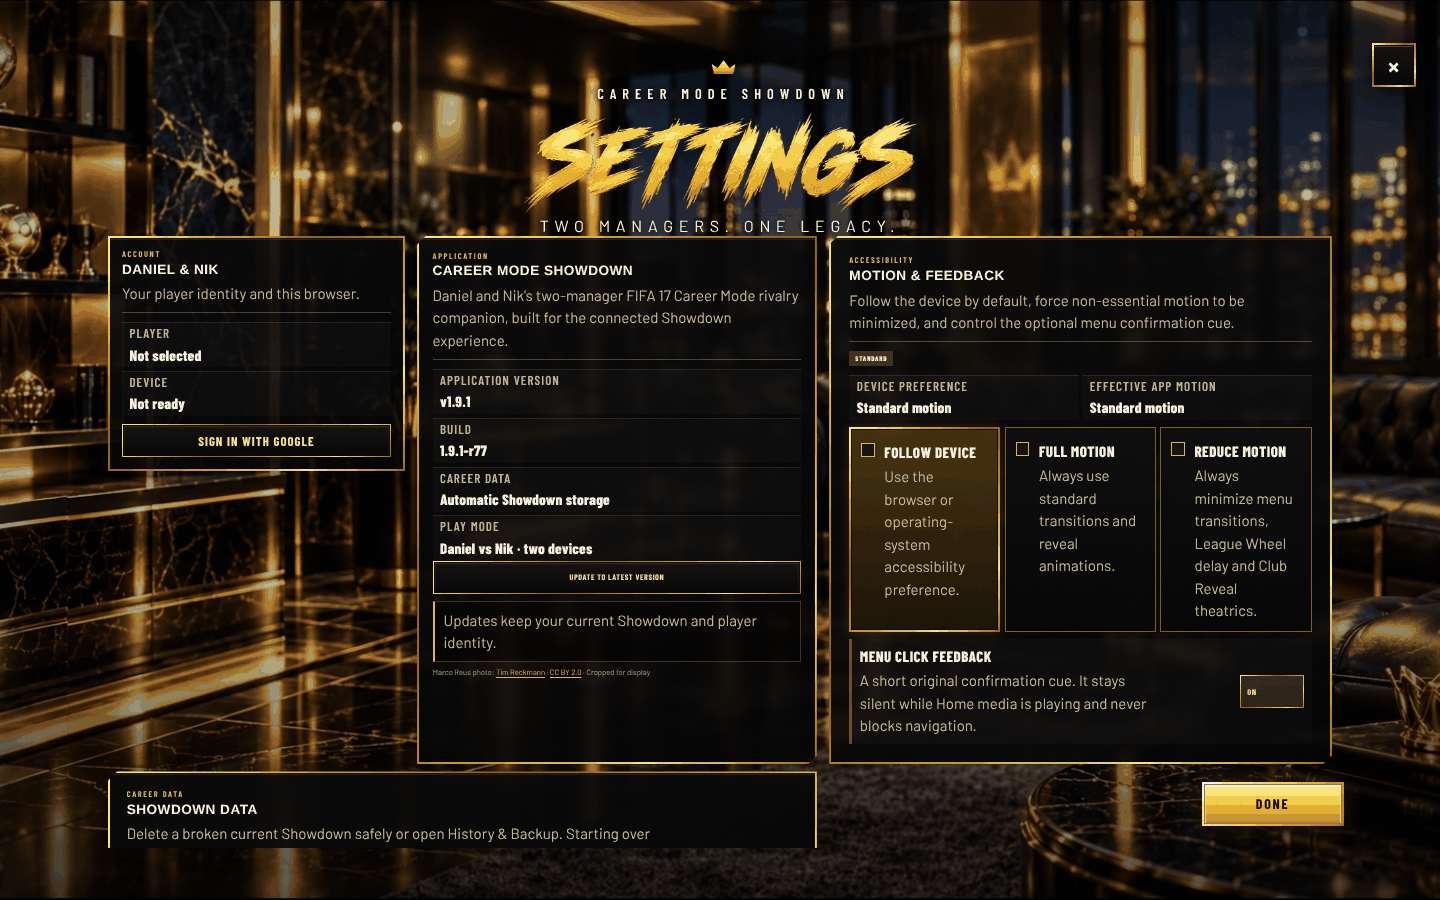
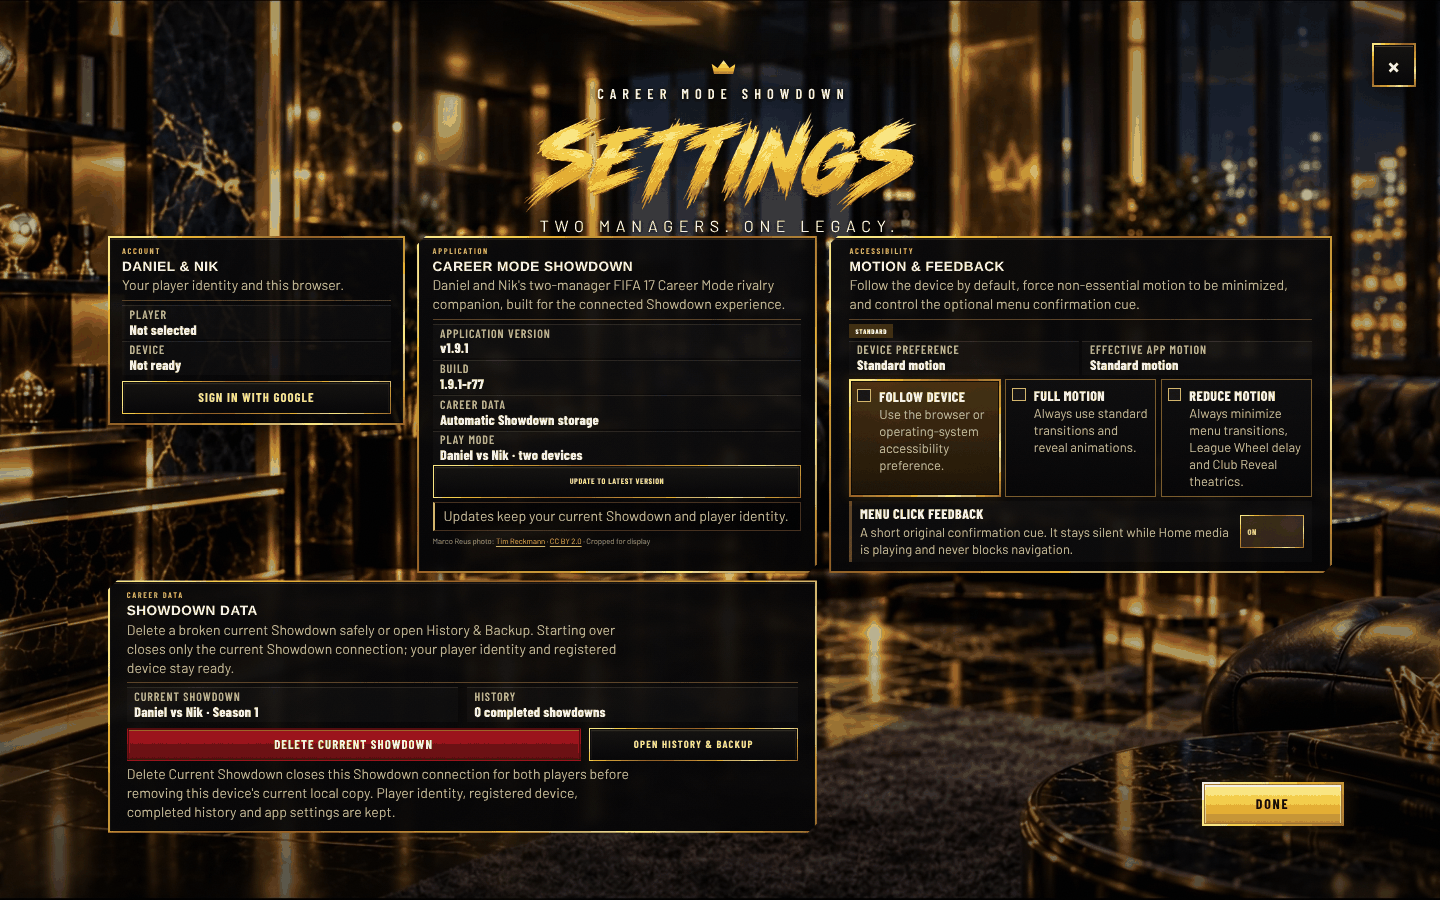
r78 kit: Settings desktop keeps the approved composition (HO-028)
The 3d+ zoom compensation made the Motion cards tall and pushed the
Showdown Data card below the fold. Settings on big desktops now uses
smaller on-screen sizes on that screen only (14px intros/notes/values,
13px helper lines, 12px labels), pays for them with tighter spacing
inside the panels, and floors the zoom divisor on smaller laptop
windows. All panels and the full Showdown Data card fit with no scroll
from 1280x720 to 2560x1440; phone Settings is unchanged. Re-shot
after_settings_desktop.png, added after_settings_1920x1080.png and
after_settings_1366x768.png, updated README caveats.

Claude-Session: https://claude.ai/code/session_014ZJxmmR5BHBU6KFwo3Mvsk

Changed region(s): [[0.0625, 0.28, 0.9375, 0.9644]]

diff --git a/project-documents/factory/r78/HO-028_029/r78-type.css b/project-documents/factory/r78/HO-028_029/r78-type.css
@@ -323,24 +323,68 @@
 }
 
 /* 3d+ · Settings on big landscape desktops is one 1920x1080 composition shrunk with CSS zoom
-   (rulesSettingsV10.css: zoom min(100vw/1920px, 100vh/1080px, 1.5) on each .settingsPanel). At 1440x900 that is
-   0.75, so 15px copy showed at about 11px. Body copy and row labels divide by the same factor so they SHOW at the
-   token size. Panels then grow taller; their content area already scrolls (Nik 2026-10-05 rule). */
+   (rulesSettingsV10.css: zoom min(100vw/1920px, 100vh/1080px, 1.5) on each .settingsPanel; 0.75 at 1440x900).
+   This screen only uses SMALLER on-screen sizes than the global tokens, so the approved composition stays intact:
+   all three panels and the whole Showdown Data card (with Delete Current Showdown) in one view, no page scroll.
+   On screen: panel intros, notes and row values 14px; motion/audio helper lines 13px; row labels 12px.
+   Each size divides by the same zoom factor so it SHOWS at that size from 1440x900 up to 2560x1440; the type is paid for
+   with tighter spacing inside the panels. Short laptop windows: see the block after this one. */
 @media (min-width: 1200px) and (min-height: 600px) and (min-aspect-ratio: 3/2) and (orientation: landscape) {
   @supports (zoom: calc(1px / 1px)) {
     :root #settingsOverlay.v10Settings { --r78-settings-zoom: min(calc(100vw / 1920px), calc(100vh / 1080px), 1.5); }
     :root #settingsOverlay.v10Settings :is(.settingsPanelHeading p, .settingsDataNote, .settingsOfflineNote,
-      .settingsApplicationUpdateStatus, .settingsMotionCopy small, .settingsAudioCopy small) {
-      font-size: calc(var(--r78-size-secondary) / var(--r78-settings-zoom));
+      .settingsApplicationUpdateStatus) {
+      font-size: calc(14px / var(--r78-settings-zoom));
+      line-height: 1.35;
+    }
+    :root #settingsOverlay.v10Settings :is(.settingsMotionCopy small, .settingsAudioCopy small) {
+      font-size: calc(13px / var(--r78-settings-zoom));
+      line-height: 1.3;
     }
     :root #settingsOverlay.v10Settings .settingsInfoRow span {
-      font-size: calc(var(--r78-size-label) / var(--r78-settings-zoom));
+      font-size: calc(12px / var(--r78-settings-zoom));
+      line-height: 1.1;
     }
-    /* row values and choice names (condensed, were 13px -> ~10px on screen) */
+    /* row values and choice names (condensed) */
     :root #settingsOverlay.v10Settings :is(.settingsInfoRow strong, .settingsMotionCopy strong, .settingsAudioCopy strong) {
-      font-size: calc(15px / var(--r78-settings-zoom));
-      line-height: 1.25;
+      font-size: calc(14px / var(--r78-settings-zoom));
+      line-height: 1.15;
     }
+    /* Height budget: the 1920x1080 composition had about 9px to spare, so the bigger type is paid for with spacing
+       inside the panels (panel padding, heading gaps, row gaps, the band above the motion summary down to its STANDARD chip).
+       Panel sizes, positions and order are unchanged. */
+    :root #settingsOverlay.v10Settings #settingsDialog #settingsContent > .settingsPanel { padding-top: 12px; padding-bottom: 12px; }
+    :root #settingsOverlay.v10Settings #settingsContent .settingsPanelHeading { margin-bottom: 6px; padding-bottom: 6px; }
+    :root #settingsOverlay.v10Settings #settingsContent .settingsPanelHeading p { margin-top: 3px; }
+    :root #settingsOverlay.v10Settings #settingsContent .settingsInfoGrid { row-gap: 2px; }
+    :root #settingsOverlay.v10Settings #settingsContent .settingsInfoRow { padding-top: 2px; padding-bottom: 2px; }
+    :root #settingsOverlay.v10Settings #settingsContent .settingsInfoRow strong { margin-top: 1px; }
+    :root #settingsOverlay.v10Settings #settingsContent .settingsMotionSummary { padding-top: 22px; }
+    :root #settingsOverlay.v10Settings #settingsContent :is(.settingsOfflineNote, .settingsApplicationUpdateStatus) { margin-top: 6px; padding-top: 5px; padding-bottom: 5px; }
+    :root #settingsOverlay.v10Settings #settingsContent .settingsOfflineActions { margin-top: 8px; }
+    :root #settingsOverlay.v10Settings #settingsContent .settingsDataNote { margin-top: 6px; }
+    :root #settingsOverlay.v10Settings #settingsContent .settingsMotionChoices { margin-top: 6px; }
+    :root #settingsOverlay.v10Settings #settingsContent .settingsMotionChoice { padding: 8px; column-gap: 7px; }
+    :root #settingsOverlay.v10Settings #settingsContent :is(.settingsMotionMarker, .settingsMotionCopy) { margin-top: 2px; }
+    :root #settingsOverlay.v10Settings #settingsContent .settingsMotionCopy small { margin-top: 2px; }
+    :root #settingsOverlay.v10Settings #settingsContent .settingsAudioRow { margin-top: 6px; padding-top: 6px; padding-bottom: 6px; }
+    /* main caps this line at 390px, sized for its old 9px text; at 13px it would wrap to three short lines */
+    :root #settingsOverlay.v10Settings #settingsContent .settingsAudioCopy { gap: 3px; }
+    :root #settingsOverlay.v10Settings #settingsContent .settingsAudioCopy small { max-width: 60ch; }
+  }
+}
+/* Smaller laptop windows: full compensation would not fit there, so the zoom divisor has a floor and the type shrinks a
+   little with the window. 16:9 windows under 1920x1080 (1600x900, 1536x864, 1366x768, 1280x720) keep the 16:9 layout at
+   divisor 0.85 (1366x768: about 11.5px intros, 11px helpers, 10px labels; main shows 8.5 / 6.4 / 5.7px there).
+   16:10 and 3:2 windows under 900px tall (1280x800) keep the 1440x900 layout at divisor 0.75. */
+@media (min-width: 1200px) and (min-height: 600px) and (max-height: 1079px) and (min-aspect-ratio: 17/10) and (orientation: landscape) {
+  @supports (zoom: calc(1px / 1px)) {
+    :root #settingsOverlay.v10Settings { --r78-settings-zoom: max(min(calc(100vw / 1920px), calc(100vh / 1080px), 1.5), 0.85); }
+  }
+}
+@media (min-width: 1200px) and (min-height: 600px) and (max-height: 899px) and (max-aspect-ratio: 169/100) and (min-aspect-ratio: 3/2) and (orientation: landscape) {
+  @supports (zoom: calc(1px / 1px)) {
+    :root #settingsOverlay.v10Settings { --r78-settings-zoom: max(min(calc(100vw / 1920px), calc(100vh / 1080px), 1.5), 0.75); }
   }
 }
 

diff --git a/project-documents/factory/r78/HO-028_029/README.md b/project-documents/factory/r78/HO-028_029/README.md
@@ -61,7 +61,7 @@ The panel is opaque: the tile plus a 1px `--sd-gold-700` edge, a thin gold hairl
 
 What changes on the Rules screen: one body font (Barlow 16/1.55, ivory) and gold condensed section headings. Scoring becomes one row per award, with the label in body type and the value in gold. Rule cards get an opaque marble face. The cards have more air and about 64ch lines. On desktop, BACK TO MAIN MENU now sits after the last row. The board no longer fits in one view at 16px, and the old sticky button covered rule text while scrolling. The top navbar keeps HOME one tap away. Phones keep their docked Back and their accordion.
 
-Settings note: on big desktops the Settings board is shrunk with CSS `zoom` (0.75 at 1440x900). `r78-type.css` 3d+ divides the body copy, the row labels and the values by the same factor, so they show at the token size. The Motion choice cards grow taller as a result. Please look at Settings at 1366x768 and 1440x900 after wiring. Also note: Settings panel headings use `var(--sd-font-display, sans-serif)`, and that variable is not defined, so they render in a generic sans-serif. That is a heading font, so it is left alone here.
+Settings note: on big landscape desktops the Settings board is one 1920x1080 composition shrunk with CSS `zoom` (0.75 at 1440x900, 1 at 1920x1080). On this screen only, `r78-type.css` 3d+ deliberately uses SMALLER on-screen sizes than the global tokens: panel intros, notes and row values 14px, motion and audio helper lines 13px, row labels 12px (main shows 12 / 9 / 8px at 1920x1080 and 9 / 6.75 / 6px at 1440x900). Each size is divided by the zoom factor so it shows at that size, and the extra height is paid for with tighter spacing inside the panels (panel padding 12px, smaller heading and row gaps, a 22px band for the STANDARD chip instead of 31px, and main's 390px cap on the Menu Click Feedback line lifted to 60ch). Panel positions, sizes, order and the 3-column motion choices are unchanged. Checked with an active Showdown (Delete Current Showdown showing) at 1280x720, 1280x800, 1350x900, 1366x768, 1440x900, 1536x864, 1600x900, 1680x1050, 1920x1080, 1920x1200 and 2560x1440: all three panels and the whole Showdown Data card are in view, `#settingsContent` does not scroll, the page does not scroll, and the motion helper lines wrap to 3 to 5 lines. On windows smaller than the composition, the full compensation would not fit. So the zoom divisor stops at 0.85 on 16:9 windows under 1080px tall, and at 0.75 on 16:10 and 3:2 windows under 900px tall, and the type shrinks a little with the window. At 1366x768 that gives about 11.5px intros, 11px helpers and 10px labels. Phones, sideways phones and tablets are outside these queries; phone Settings measures the same as the previous kit. The tagline sitting under the panel tops at 1366x768 is main's own geometry and is the same before the kit. Also note: Settings panel headings use `var(--sd-font-display, sans-serif)`, and that variable is not defined, so they render in a generic sans-serif. That is a heading font, so it is left alone here.
 
 ## Checklist (Team G, after wiring)
 
@@ -69,7 +69,7 @@ Settings note: on big desktops the Settings board is shrunk with CSS `zoom` (0.7
 - [ ] No see-through: every panel, note and toast is opaque marble (`r78-marble-tile.webp` on `#110F0C`).
 - [ ] Titles unchanged: the Kaushan Script brush titles, wordmark pictures, `.sd-title`, the screen hero eyebrow and tagline lines, and the identity gate's brush title all look exactly as before.
 - [ ] Inputs at least 16px on phones (`r78-type.css` 3i).
-- [ ] No layout overlap at 360x640, 375x667, 393x852, 1366x768 and 1440x900. Kit check on main's real Rule Book with the kit injected: no overlap, no clipped rule and no sideways scroll at all five sizes, with each of the 6 phone sections opened in turn. The preview error, modal and toasts fit at all five sizes. Still to check after wiring: the Club notes (fixed box, 3f), Settings (zoom, above), the Save Library, Restore and Legacy tools, and the two newly marble overlays.
+- [ ] No layout overlap at 360x640, 375x667, 393x852, 1366x768 and 1440x900. Kit check on main's real Rule Book with the kit injected: no overlap, no clipped rule and no sideways scroll at all five sizes, with each of the 6 phone sections opened in turn. The preview error, modal and toasts fit at all five sizes. Settings with an active Showdown fits in one view at 1366x768, 1440x900 and 1920x1080 (see the Settings note). Still to check after wiring: the Club notes (fixed box, 3f), the Save Library, Restore and Legacy tools, and the two newly marble overlays.
 - [ ] No flash: static CSS only. The body face uses `font-display: block` on files main already ships. No animation or transition is added.
 
 ## Shots (`shots/`)
@@ -81,5 +81,5 @@ The four key Rules pictures are full-colour PNGs. The others are 256-colour PNGs
 - `before/after_app_connection_required_{desktop,phone}.png`: main's real identity gate in the offline state, before and after, with the CSS only and no JS change.
 - `after_app_confirm_modal_over_settings_{desktop,phone}.png`: the C9 modal over main's real, unchanged Settings screen.
 - `before/after_app_toast_error_*.png`, `after_app_toast_success_phone.png`: main's real `showAppNotice` toast.
-- `before/after_settings_desktop.png`: Settings with the body layer.
+- `before_settings_desktop.png`: main's Settings at 1440x900. `after_settings_desktop.png` (1440x900), `after_settings_1920x1080.png` and `after_settings_1366x768.png`: Settings with the body layer and an active Showdown, so the full Showdown Data card with Delete Current Showdown shows.
 - `after_preview_{rules,error,notes,modal,modal2,toasts}_{desktop,phone}.png`: `preview.html` at 1440x900 and 393x852.
